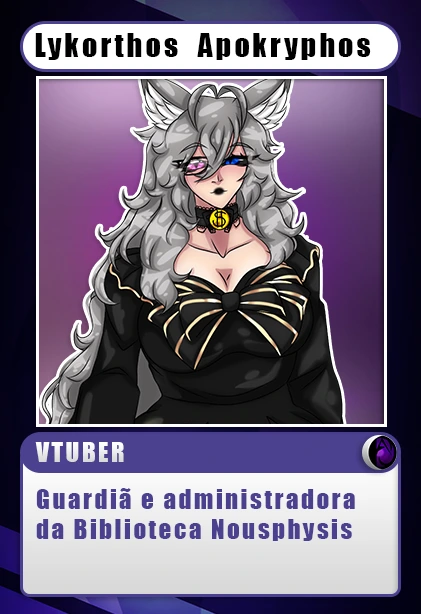
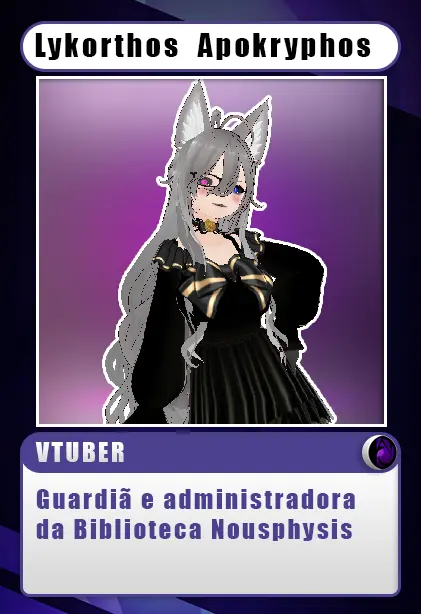
Saiu: Hino / Atualizou IMG: Lykos, Lady e Mei

Changed region(s): [[0.0926, 0.1238, 0.8337, 0.7117], [0.5867, 0.6808, 0.6176, 0.7117]]

diff --git a/index.html b/index.html
@@ -30,7 +30,7 @@
     <div class="slideshow-container">
 
         <div class="slideshow fade imgSlides">
-            <div class="numeracao">1 / 14</div>
+            <div class="numeracao">1 / 13</div>
             <div class="imgSlide IS01"></div>
             <div class="legenda">UM MULTIVERSO<br>
 				DE POSSIBILIDADES!
@@ -38,7 +38,7 @@
         </div>
 
         <div class="slideshow fade imgSlides">
-            <div class="numeracao">2 / 14</div>
+            <div class="numeracao">2 / 13</div>
             <div class="imgSlide IS02"></div>
             <div class="legenda">UM MULTIVERSO<br>
 				DE POSSIBILIDADES!
@@ -46,7 +46,7 @@
         </div>
 
         <div class="slideshow fade imgSlides">
-            <div class="numeracao">3 / 14</div>
+            <div class="numeracao">3 / 13</div>
             <div class="imgSlide IS03"></div>
             <div class="legenda">UM MULTIVERSO<br>
 				DE POSSIBILIDADES!
@@ -54,7 +54,7 @@
         </div>
 
         <div class="slideshow fade imgSlides">
-            <div class="numeracao">4 / 14</div>
+            <div class="numeracao">4 / 13</div>
             <div class="imgSlide IS04"></div>
             <div class="legenda">UM MULTIVERSO<br>
 				DE POSSIBILIDADES!
@@ -62,7 +62,7 @@
         </div>
 
         <div class="slideshow fade imgSlides">
-            <div class="numeracao">5 / 14</div>
+            <div class="numeracao">5 / 13</div>
             <div class="imgSlide IS05"></div>
             <div class="legenda">UM MULTIVERSO<br>
 				DE POSSIBILIDADES!
@@ -70,7 +70,7 @@
         </div>
 
         <div class="slideshow fade imgSlides">
-            <div class="numeracao">6 / 14</div>
+            <div class="numeracao">6 / 13</div>
             <div class="imgSlide IS06"></div>
             <div class="legenda">UM MULTIVERSO<br>
 				DE POSSIBILIDADES!
@@ -78,7 +78,7 @@
         </div>
 
         <div class="slideshow fade imgSlides">
-            <div class="numeracao">7 / 14</div>
+            <div class="numeracao">7 / 13</div>
             <div class="imgSlide IS07"></div>
             <div class="legenda">UM MULTIVERSO<br>
 				DE POSSIBILIDADES!
@@ -86,7 +86,7 @@
         </div>
 
         <div class="slideshow fade imgSlides">
-            <div class="numeracao">8 / 14</div>
+            <div class="numeracao">8 / 13</div>
             <div class="imgSlide IS08"></div>
             <div class="legenda">UM MULTIVERSO<br>
 				DE POSSIBILIDADES!
@@ -94,7 +94,7 @@
         </div>
 
         <div class="slideshow fade imgSlides">
-            <div class="numeracao">9 / 14</div>
+            <div class="numeracao">9 / 13</div>
             <div class="imgSlide IS09"></div>
             <div class="legenda">UM MULTIVERSO<br>
 				DE POSSIBILIDADES!
@@ -102,7 +102,7 @@
         </div>
 
         <div class="slideshow fade imgSlides">
-            <div class="numeracao">10 / 14</div>
+            <div class="numeracao">10 / 13</div>
             <div class="imgSlide IS10"></div>
             <div class="legenda">UM MULTIVERSO<br>
 				DE POSSIBILIDADES!
@@ -110,7 +110,7 @@
         </div>
 
         <div class="slideshow fade imgSlides">
-            <div class="numeracao">11 / 14</div>
+            <div class="numeracao">11 / 13</div>
             <div class="imgSlide IS11"></div>
             <div class="legenda">UM MULTIVERSO<br>
 				DE POSSIBILIDADES!
@@ -118,7 +118,7 @@
         </div>
 
         <div class="slideshow fade imgSlides">
-            <div class="numeracao">12 / 14</div>
+            <div class="numeracao">12 / 13</div>
             <div class="imgSlide IS12"></div>
             <div class="legenda">UM MULTIVERSO<br>
 				DE POSSIBILIDADES!
@@ -126,16 +126,8 @@
         </div>
 
         <div class="slideshow fade imgSlides">
-            <div class="numeracao">13 / 14</div>
+            <div class="numeracao">13 / 13</div>
             <div class="imgSlide IS13"></div>
-            <div class="legenda">UM MULTIVERSO<br>
-				DE POSSIBILIDADES!
-		    </div>
-        </div>
-
-        <div class="slideshow fade imgSlides">
-            <div class="numeracao">14 / 14</div>
-            <div class="imgSlide IS14"></div>
             <div class="legenda">UM MULTIVERSO<br>
 				DE POSSIBILIDADES!
 		    </div>
@@ -160,7 +152,6 @@
         <span class="dot" onclick="currentSlide(11)"></span>
         <span class="dot" onclick="currentSlide(12)"></span>
         <span class="dot" onclick="currentSlide(13)"></span>
-        <span class="dot" onclick="currentSlide(14)"></span>
     </div>
 
     <div align="center">
@@ -185,12 +176,6 @@
         <div title="Clique para ver mais informa&ccedil;&otilde;es">
             <a href='https://desu.my.canva.site' target='_blank'>
             <img src="Imagens/Card_Desu.webp"
-            alt="" class="capas CF"> </a>
-        </div>
-
-        <div title="Clique para ver mais informa&ccedil;&otilde;es">
-            <a href='https://x.com/_OhINO?t=fW98K4bCDbeCTYASNQzDWw&s=09' target='_blank'>
-            <img src="Imagens/Card_Hino_Sana.webp"
             alt="" class="capas CF"> </a>
         </div>
 

diff --git a/style.css b/style.css
@@ -289,17 +289,16 @@ section div:last-child{
 .IS01{background-image: url(Imagens/ImgSl/IS-Ayano-Sano.webp); background-position: center; background-repeat: no-repeat; background-size: cover;}
 .IS02{background-image: url(Imagens/ImgSl/IS-CoffeeSan.webp); background-position: center;  background-repeat: no-repeat; background-size: cover;}
 .IS03{background-image: url(Imagens/ImgSl/IS-Desu.webp); background-position: center; background-repeat: no-repeat; background-size: cover;}
-.IS04{background-image: url(Imagens/ImgSl/IS-Hino-Sana.webp); background-position: center; background-repeat: no-repeat; background-size: cover;}
-.IS05{background-image: url(Imagens/ImgSl/IS-Jingle-Bell.webp); background-position: center;  background-repeat: no-repeat; background-size: cover;}
-.IS06{background-image: url(Imagens/ImgSl/IS-Julia-Queen.webp); background-position: center; background-repeat: no-repeat; background-size: cover;}
-.IS07{background-image: url(Imagens/ImgSl/IS-Kuroy-Wildhavoc.webp); background-position: center; background-repeat: no-repeat; background-size: cover;}
-.IS08{background-image: url(Imagens/ImgSl/IS-Lady_Clara_Reis.webp); background-position: center;  background-repeat: no-repeat; background-size: cover;}
-.IS09{background-image: url(Imagens/ImgSl/IS-Lady-Wise-Plus.webp); background-position: center;  background-repeat: no-repeat; background-size: cover;}
-.IS10{background-image: url(Imagens/ImgSl/IS-LauraNuub.webp); background-position: center; background-repeat: no-repeat; background-size: cover;}
-.IS11{background-image: url(Imagens/ImgSl/IS-Lykos-Apokryphos.webp); background-position: center; background-repeat: no-repeat; background-size: cover;}
-.IS12{background-image: url(Imagens/ImgSl/IS-Mei-Zukamori.webp); background-position: center;  background-repeat: no-repeat; background-size: cover;}
-.IS13{background-image: url(Imagens/ImgSl/IS-Nethozzeth.webp); background-position: center;  background-repeat: no-repeat; background-size: cover;}
-.IS14{background-image: url(Imagens/ImgSl/IS-Pudim.webp); background-position: center; background-repeat: no-repeat; background-size: cover;}
+.IS04{background-image: url(Imagens/ImgSl/IS-Jingle-Bell.webp); background-position: center;  background-repeat: no-repeat; background-size: cover;}
+.IS05{background-image: url(Imagens/ImgSl/IS-Julia-Queen.webp); background-position: center; background-repeat: no-repeat; background-size: cover;}
+.IS06{background-image: url(Imagens/ImgSl/IS-Kuroy-Wildhavoc.webp); background-position: center; background-repeat: no-repeat; background-size: cover;}
+.IS07{background-image: url(Imagens/ImgSl/IS-Lady_Clara_Reis.webp); background-position: center;  background-repeat: no-repeat; background-size: cover;}
+.IS08{background-image: url(Imagens/ImgSl/IS-Lady-Wise-Plus.webp); background-position: center;  background-repeat: no-repeat; background-size: cover;}
+.IS09{background-image: url(Imagens/ImgSl/IS-LauraNuub.webp); background-position: center; background-repeat: no-repeat; background-size: cover;}
+.IS10{background-image: url(Imagens/ImgSl/IS-Lykos-Apokryphos.webp); background-position: center; background-repeat: no-repeat; background-size: cover;}
+.IS11{background-image: url(Imagens/ImgSl/IS-Mei-Zukamori.webp); background-position: center;  background-repeat: no-repeat; background-size: cover;}
+.IS12{background-image: url(Imagens/ImgSl/IS-Nethozzeth.webp); background-position: center;  background-repeat: no-repeat; background-size: cover;}
+.IS13{background-image: url(Imagens/ImgSl/IS-Pudim.webp); background-position: center; background-repeat: no-repeat; background-size: cover;}
 
 .prev,
 .next{
